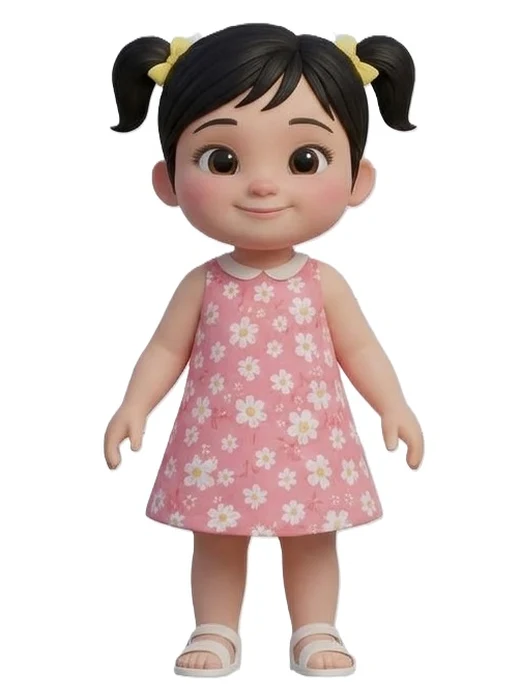
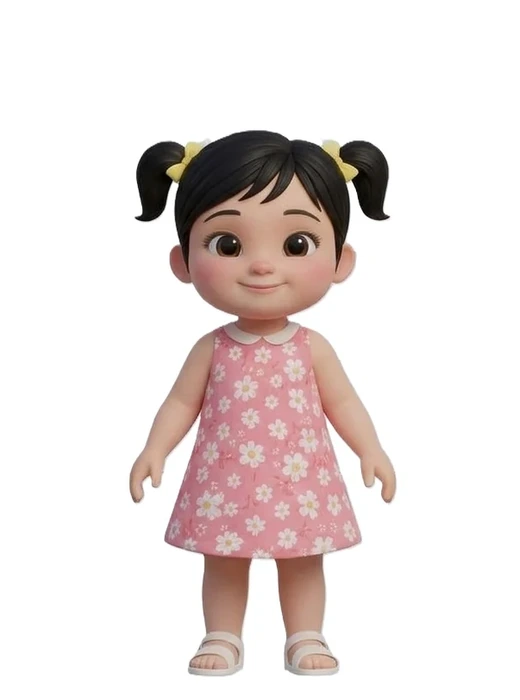
Website: Alayna figure scaled down to match age (2 yrs vs Hamad 3.5 yrs)
Claude-Session: https://claude.ai/code/session_01GgcymjaMS6vVXG87TSpXFJ

diff --git a/index.html b/index.html
@@ -302,7 +302,7 @@
       <p class="section-lede">Hamad, Alayna, their family, the bus driver and their friends.</p>
       <div class="cast-grid">
         <figure class="person"><img src="people/hamad.webp?v=c3" alt="Boy in a red and white striped T-shirt and denim shorts" width="260" height="700" loading="lazy"><figcaption>Hamad<small>Brother</small></figcaption></figure>
-        <figure class="person"><img src="people/alayna.webp?v=c3" alt="Girl in a pink floral dress with pigtails and yellow bows" width="260" height="700" loading="lazy"><figcaption>Alayna<small>Sister</small></figcaption></figure>
+        <figure class="person"><img src="people/alayna.webp?v=d5" alt="Girl in a pink floral dress with pigtails and yellow bows" width="260" height="700" loading="lazy"><figcaption>Alayna<small>Sister</small></figcaption></figure>
         <figure class="person"><img src="people/baba.webp?v=c3" alt="Man in a light-blue shirt and beige trousers" width="260" height="700" loading="lazy"><figcaption>Baba<small>Dad</small></figcaption></figure>
         <figure class="person"><img src="people/mama.webp?v=d4" alt="Woman in a navy abaya with gold trim and a hijab" width="260" height="700" loading="lazy"><figcaption>Mama<small>Mom</small></figcaption></figure>
         <figure class="person"><img src="people/dada.webp?v=d4" alt="Old man with a white beard in a grey waistcoat and white kurta" width="260" height="700" loading="lazy"><figcaption>Dada<small>Grandfather</small></figcaption></figure>
